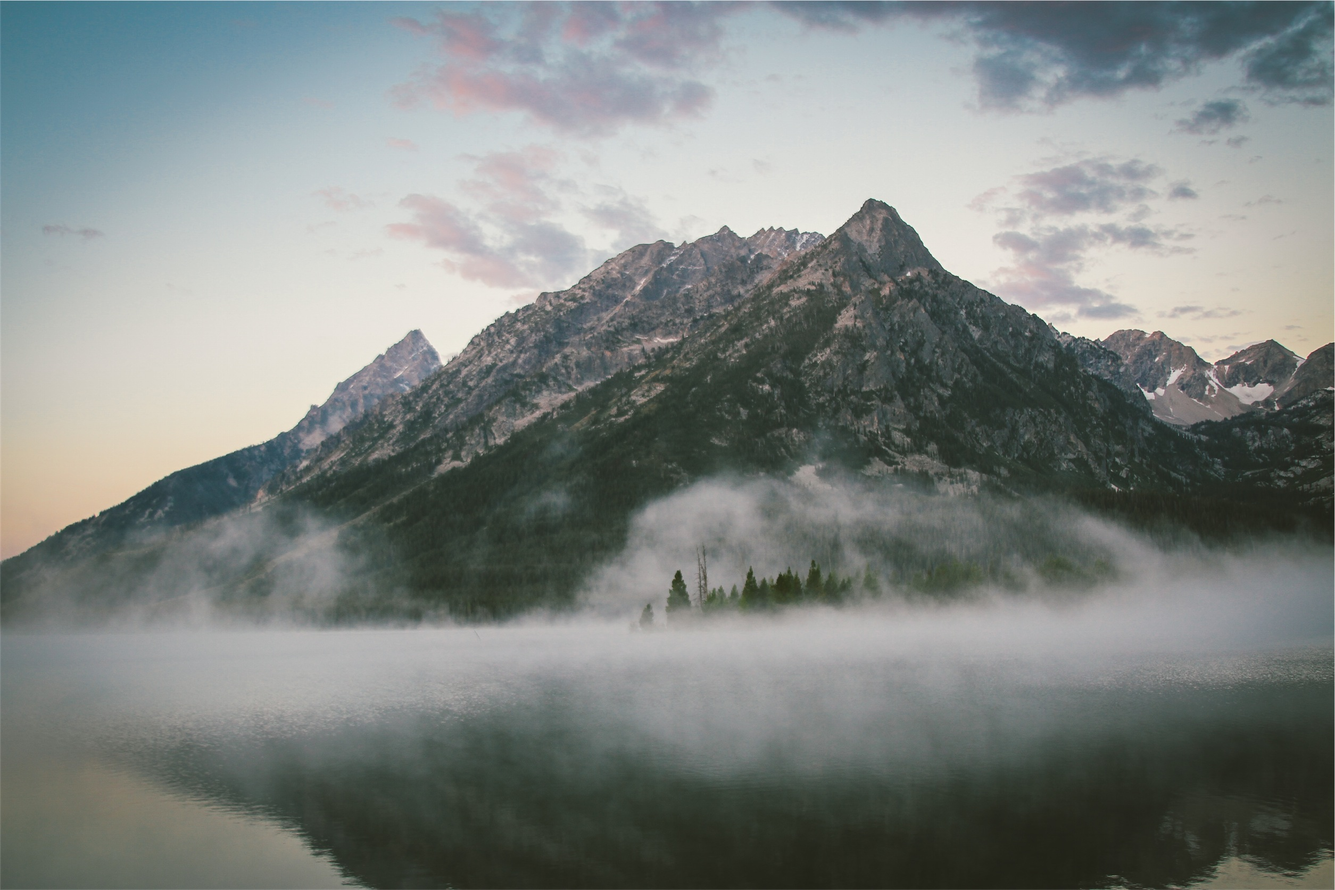
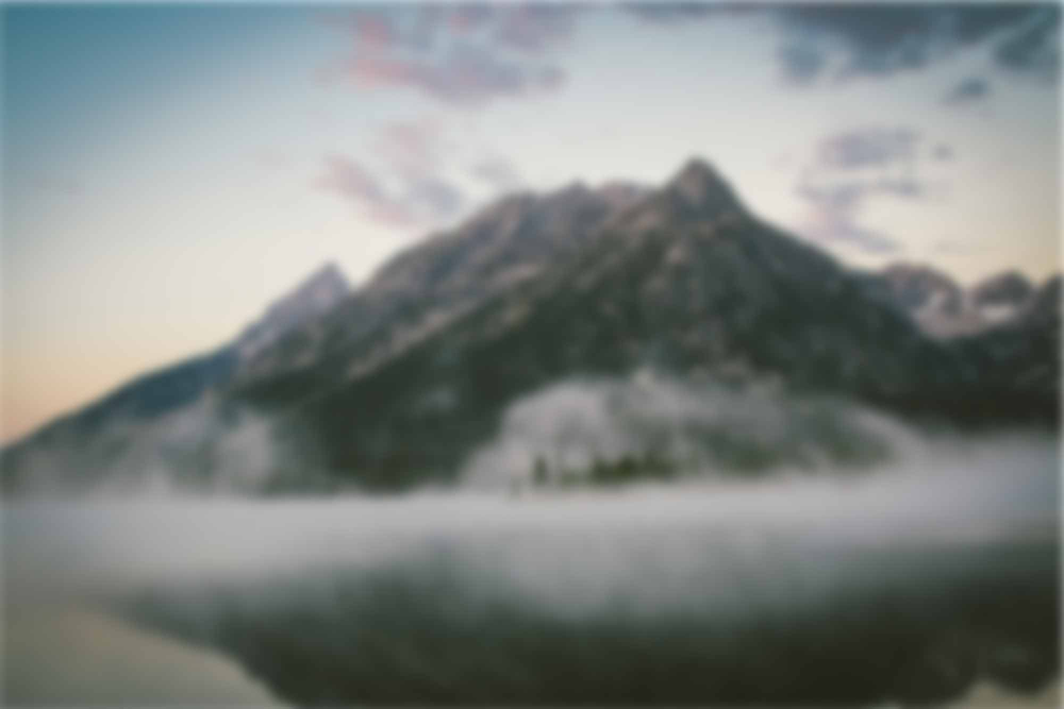
Stopped trying to implement hero blur through CSS

diff --git a/scss/app.scss b/scss/app.scss
@@ -76,30 +76,29 @@ h1, h2, h3, h4, h5 {
   width: 280px;
   margin: 30px auto;
 }
-/*
+
 .hero {
-  background: url(../img/hero-bg.jpeg) center center/cover no-repeat;
-  -webkit-filter: opacity(.5);     
-  min-height: 10vh;
+  background: url(../img/hero-bg-c.jpeg) center center/cover no-repeat;   
   width: 100%;
-  padding-bottom: 150px;
+  padding-bottom: 75px;
   border-bottom: 4px solid #aaa;
 }
-*/
+
+/*
 .hero {
-  background: 
-    /* top, transparent blue, faked with gradient */ 
+  background:  
     linear-gradient(
       rgba(0, 31, 58, 0.25), 
       rgba(0, 44, 84, 0.75)
     ),
-    /* bottom, image */
     url(../img/hero-bg.jpeg) center center/cover no-repeat;
     -webkit-filter: opacity(.5);
   width: 100%;
   padding-bottom: 75px;
   border-bottom: 4px solid #aaa;
 }
+*/
+
 span.fa {
   color: $primary-color;
 }

diff --git a/index.html b/index.html
@@ -81,7 +81,7 @@
     
     <section class="about">
       <div class="row text-center">
-        <h2 class="uppercase">About Larry Nelson</h2>
+        <h2 class="uppercase">About</h2>
         <hr class="divider" /> 
       </div>
       <div class="row">
